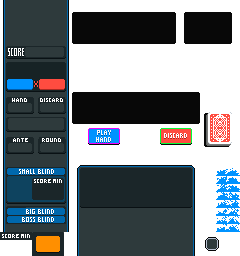
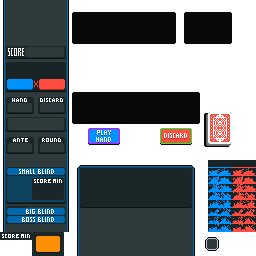
Fix grit palette swapping

diff --git a/source/game.c b/source/game.c
@@ -583,18 +583,18 @@ static const BG_POINT MAIN_MENU_ACE_T       = {88,      26};
 
 
 // Palette IDs
-#define PLAY_HAND_BTN_SELECTED_BORDER_PID 1
+#define PLAY_HAND_BTN_SELECTED_BORDER_PID 7
 #define BOSS_BLIND_PRIMARY_PID 1
-#define BLIND_BG_SHADOW_PID 2
+#define BLIND_BG_SHADOW_PID 5
 #define MAIN_MENU_PLAY_BUTTON_OUTLINE_PID 2
 #define REROLL_BTN_PID 3
-#define BLIND_BG_SECONDARY_PID 5
+#define BLIND_BG_SECONDARY_PID 18
 #define BLIND_SKIP_BTN_PID 5 
 #define MAIN_MENU_PLAY_BUTTON_MAIN_COLOR_PID 5
 #define NEXT_ROUND_BTN_SELECTED_BORDER_PID 5
 #define SHOP_PANEL_SHADOW_PID 6
 #define BOSS_BLIND_SHADOW_PID 7
-#define PLAY_HAND_BTN_PID 7
+#define PLAY_HAND_BTN_PID 6
 #define REROLL_BTN_SELECTED_BORDER_PID 7
 #define SHOP_LIGHTS_1_PID 8
 #define DISCARD_BTN_SELECTED_BORDER_PID 9
@@ -2370,37 +2370,56 @@ static void played_cards_update_loop(bool* discarded_card, int* played_selection
     }
 }
 
-static const Rect score_flame_frames[9] = {
-    {27, 20, 29, 20},
-    {27, 21, 29, 21},
-    {27, 22, 29, 22},
-    {27, 23, 29, 23},
-    {27, 24, 29, 24},
-    {27, 25, 29, 25},
-    {27, 26, 29, 26},
-    {27, 27, 29, 27},
-    {27, 28, 29, 28},
+static const Rect score_flame_chips_frames[9] = {
+    {26, 20, 28, 20},
+    {26, 21, 28, 21},
+    {26, 22, 28, 22},
+    {26, 23, 28, 23},
+    {26, 24, 28, 24},
+    {26, 25, 28, 25},
+    {26, 26, 28, 26},
+    {26, 27, 28, 27},
+    {26, 28, 28, 28},
+};
+
+static const Rect score_flame_mult_frames[9] = {
+    {29, 20, 31, 20},
+    {29, 21, 31, 21},
+    {29, 22, 31, 22},
+    {29, 23, 31, 23},
+    {29, 24, 31, 24},
+    {29, 25, 31, 25},
+    {29, 26, 31, 26},
+    {29, 27, 31, 27},
+    {29, 28, 31, 28},
 };
 
 static const BG_POINT score_flame_chips = {1, 9};
+static const BG_POINT score_flame_mult  = {5, 9};
 
 static void process_flaming_score()
 {
-    static u8 flame_score_frame = 0;
+    static u8 flame_score_chips_frame = 0;
+    static u8 flame_score_mult_frame  = 4;
     
     // animate flames at 10FPS = change sprites every 6 frames
     if (score_flames_active)
     {
-        if (timer % 6 == 0)
+        if (timer % 5 == 0)
         {
             // cycling through 8 frames total
-            flame_score_frame = (flame_score_frame + 1) % 8;
-            main_bg_se_copy_rect(score_flame_frames[flame_score_frame + 1], score_flame_chips);
+            flame_score_chips_frame = (flame_score_chips_frame + 1) % 8;
+            flame_score_mult_frame  = (flame_score_mult_frame  + 1) % 8;
+            // chips flame (blue)
+            main_bg_se_copy_rect(score_flame_chips_frames[flame_score_chips_frame + 1], score_flame_chips);
+            // mult flame (red)
+            main_bg_se_copy_rect(score_flame_mult_frames[flame_score_mult_frame  + 1], score_flame_mult);
         }
     }
     else
     {
-        main_bg_se_copy_rect(score_flame_frames[0], score_flame_chips);
+        main_bg_se_copy_rect(score_flame_chips_frames[0], score_flame_chips);
+        main_bg_se_copy_rect(score_flame_mult_frames[0], score_flame_mult);
     }
 
     return;
